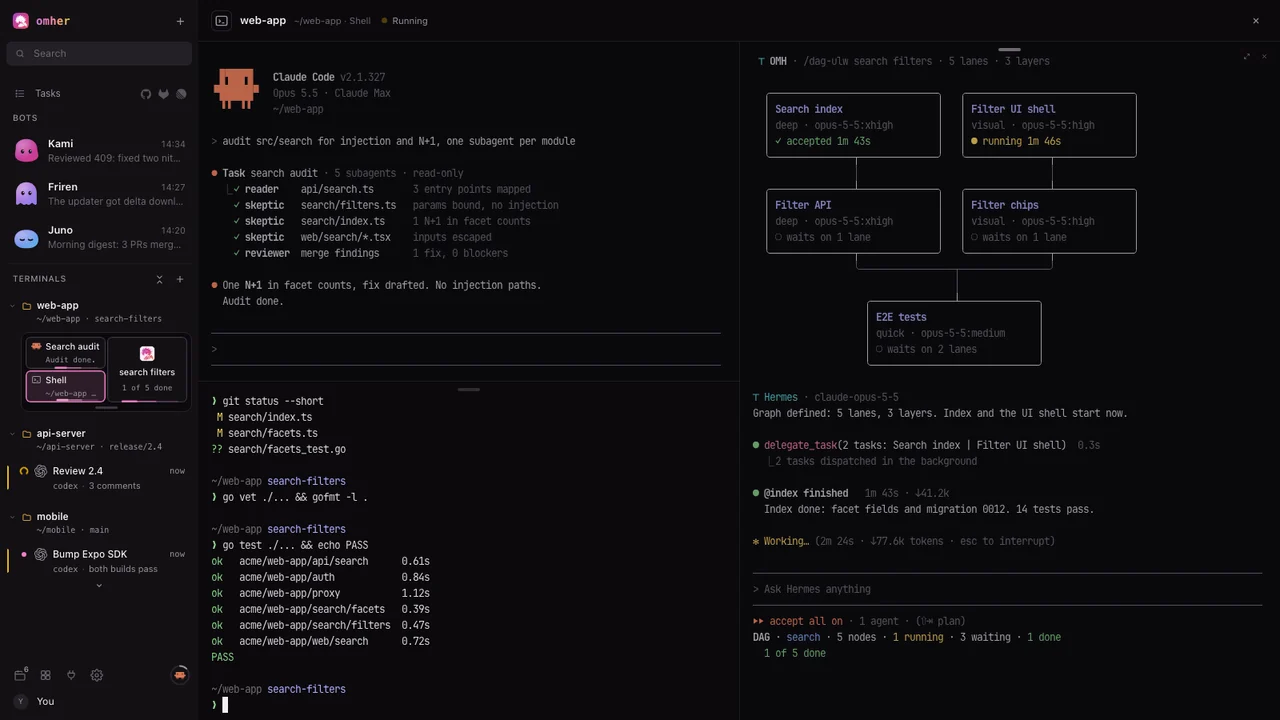
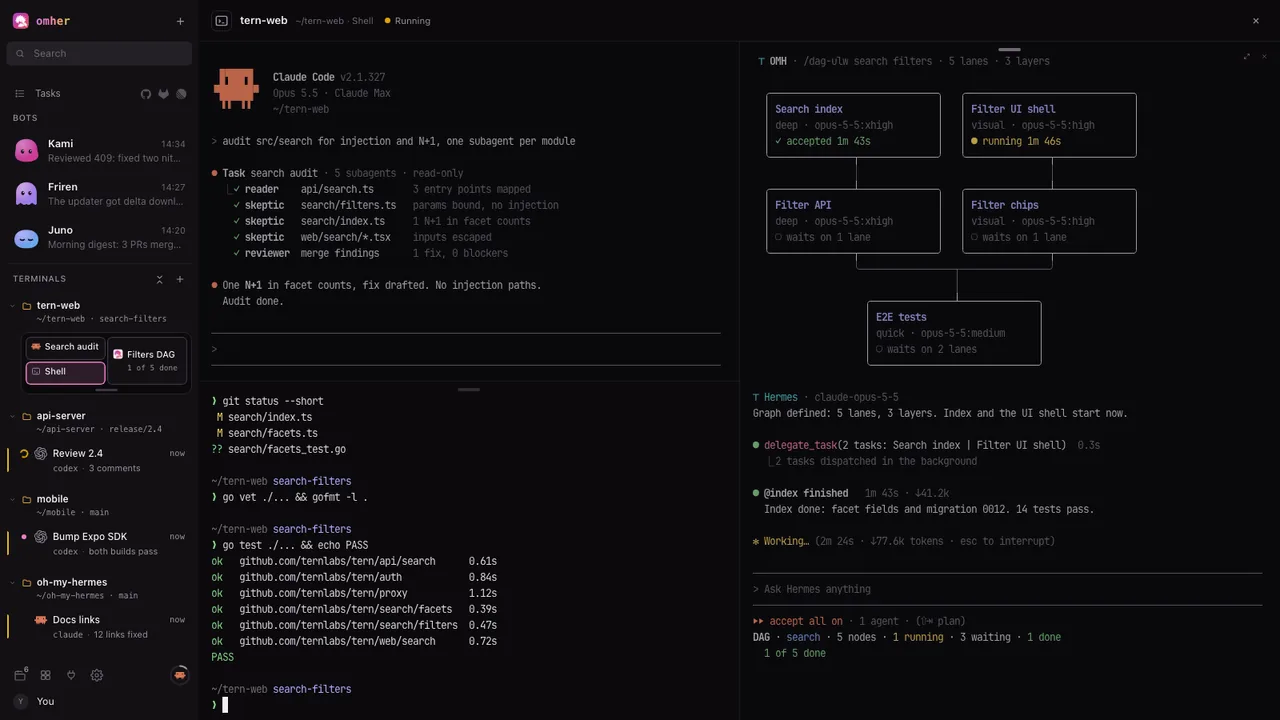
docs(site): stills name a real project (tern-web) and show the split card settled
khope read the README and omher.app stills and called the "web-app"
part sloppy. Both readings are fixed:

- The demo project's name. "web-app" and its Go module "acme/web-app/..."
  read as filler. The project is now tern-web, the frontend repo of a
  small product, with the Go module github.com/ternlabs/tern. It sits at
  ~/tern-web on branch search-filters, and the go test lines keep one
  aligned timing column. api-server, mobile and oh-my-hermes are
  unchanged, because the poster, the phone crop and both films still
  show them.
- The terminals poster's split card. Each cell's working orbit was frozen
  mid-lap, so it read as a half-filled pink bar on the bottom edge. The
  right cell used the centred "stack" layout while the left cells were
  left-aligned, and the Shell cell's second line was an ellipsized path.
  The card is now shot settled: no OSC progress, and no output for more
  than 2 s before the capture, so every cell is idle with a plain edge.
  It is sized to 62 CSS px by a grip drag, so the left cells take the
  one-line layout and the right cell takes "beside". Every cell is now
  left-aligned and nothing is cut. The OMH cell is titled "Filters DAG",
  because "search filters" overflowed by a few px in the beside layout.
  The shorter card brings the oh-my-hermes folder back into TERMINALS
  and removes the "more" chevron and the empty band above the footer.
  The shell ends on the test run's PASS.
[…]

diff --git a/site/guide/index.html b/site/guide/index.html
@@ -654,7 +654,7 @@ kbd{margin:0 2px}
 
 <section class="s g-omher" id="omher" aria-labelledby="omher-t">
   <div class="rv"><div class="kicker caps"><b>07</b></div><h2 id="omher-t" data-i18n="guide.omher.title">omher desktop (beta)</h2><p class="body" data-i18n-html="guide.omher.body">ADE means agent development environment. Your Hermes bots sit on the left, each with its work threads; the chat is in the middle; terminals open in a panel at the bottom with <kbd>Ctrl</kbd> <kbd>`</kbd>, as in VS Code.</p></div>
-  <figure class="g-shot rv" style="margin-bottom:0"><img src="../assets/omher-app-window.webp" width="1817" height="1109" loading="lazy" alt="The omher desktop app: the bot Kami with three work threads, one running with Claude Code, one waiting for you, one done; TERMINALS below show named folders with their path and branch: a Codex and Claude Code split in api-server, an OMH session running a /dag-ulw plan in oh-my-hermes and Claude Code in web-app; Kami's chat in the middle answers a follow-up with its steps timed"></figure>
+  <figure class="g-shot rv" style="margin-bottom:0"><img src="../assets/omher-app-window.webp" width="1817" height="1109" loading="lazy" alt="The omher desktop app: the bot Kami with three work threads, one running with Claude Code, one waiting for you, one done; TERMINALS below show named folders with their path and branch: a Codex and Claude Code split in api-server, an OMH session running a /dag-ulw plan in oh-my-hermes and Claude Code in tern-web; Kami's chat in the middle answers a follow-up with its steps timed"></figure>
   <div class="g-omher__acts rv">
     <p data-i18n="guide.omher.one">One command installs Hermes if it is missing, OMH, and the app.</p>
     <div class="cmd"><div><span class="p">$</span><code>curl -fsSL https://omher.app/omher | sh</code></div><button class="copy" type="button" data-copy-text="curl -fsSL https://omher.app/omher | sh" data-i18n="hero.copy">Copy</button></div>

diff --git a/README.md b/README.md
@@ -83,7 +83,7 @@ omh setup
 
 ### omher desktop
 
-<img src="assets/omher-hero.webp" alt="The omher desktop app in dark mode: the sidebar has Tasks with GitHub, GitLab and Linear, then the bot Kami with three threads it opened, each its own chat in a different live state (Fix flaky login test is running with Claude Code at work, Write 2.4 changelog needs you to allow gh pr create, Bump mobile SDK is done with PR #418 open), and TERMINALS in three named folders, each with its path and git branch: api-server (release/2.4) holds a side-by-side split of Codex reviewing 2.4 and Claude Code migrating the database, oh-my-hermes holds an OMH session running a /dag-ulw release plan, and web-app holds a Claude Code session that rang with news, each with its CLI's logo; Kami's chat holds the morning check-in, the ask that opened the three threads and a live answer about a slow nightly build" width="900">
+<img src="assets/omher-hero.webp" alt="The omher desktop app in dark mode: the sidebar has Tasks with GitHub, GitLab and Linear, then the bot Kami with three threads it opened, each its own chat in a different live state (Fix flaky login test is running with Claude Code at work, Write 2.4 changelog needs you to allow gh pr create, Bump mobile SDK is done with PR #418 open), and TERMINALS in three named folders, each with its path and git branch: api-server (release/2.4) holds a side-by-side split of Codex reviewing 2.4 and Claude Code migrating the database, oh-my-hermes holds an OMH session running a /dag-ulw release plan, and tern-web holds a Claude Code session that rang with news, each with its CLI's logo; Kami's chat holds the morning check-in, the ask that opened the three threads and a live answer about a slow nightly build" width="900">
 
 Your Hermes bots and coding agents, in one window.
 
